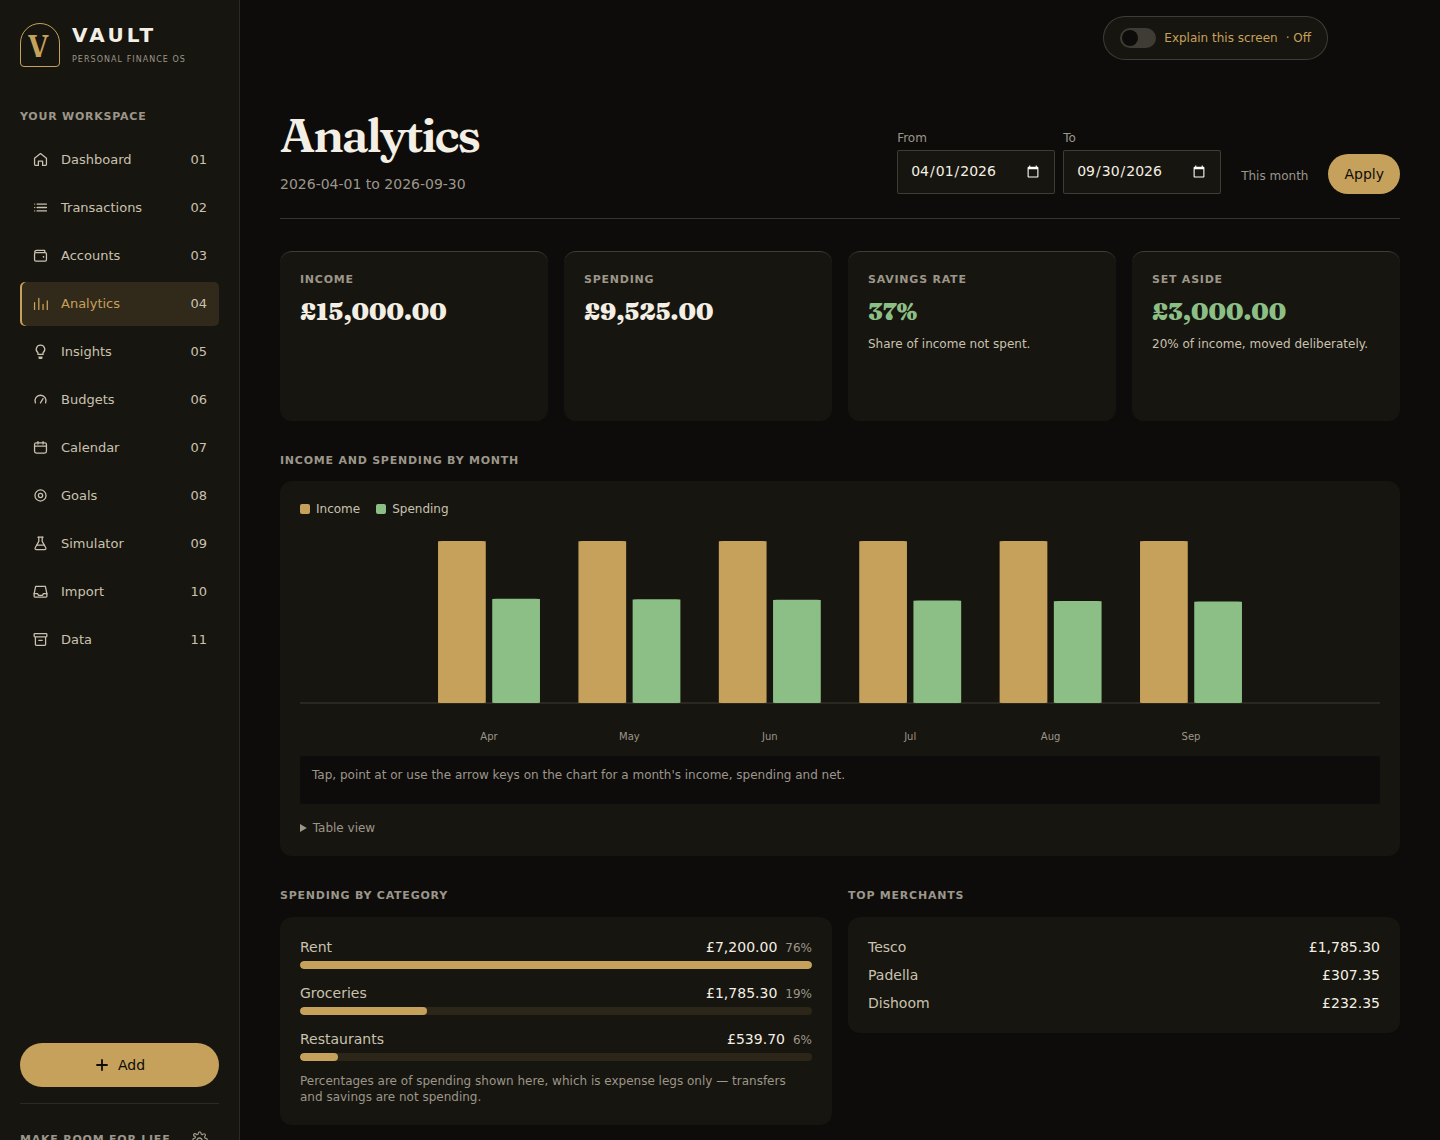
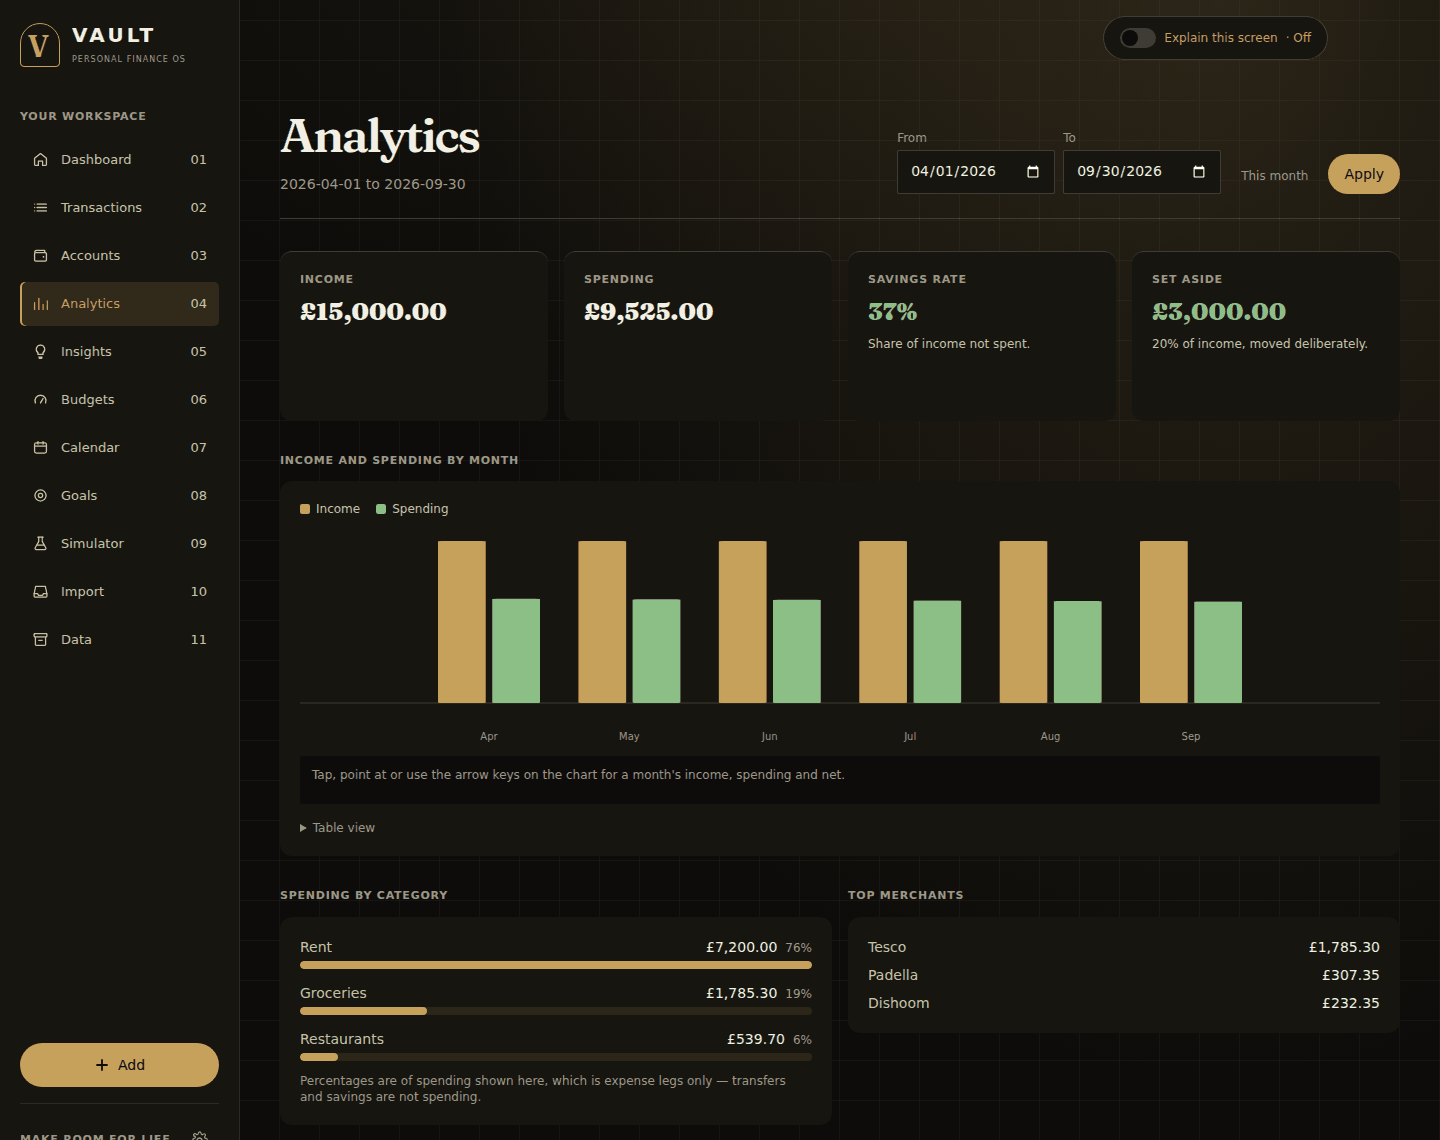
Give Field, Raw and Command their own structure, and fill the space around it
Until now these three differed from Vault Noir only in their tokens. In
section G of globals.css, against the classes every screen shares:

- Field Ledger is a ruled page: cards lose fill and frame and keep a
  rule; the title is italic under a double rule. At lg the content sits
  on a sheet of ledger paper with a red double margin rule.
- Raw Ledger labels sections with inverted tags, underlines the title
  like a poster and tints its stat tiles. At lg the content is a
  hard-framed slab on hatched gutters.
- Command Ledger reads as a console: // section comments (hidden from
  screen readers), a > prompt title, tight 1px frames. At 2xl a live
  status panel fills the spare column: time, route, safe to spend and
  net worth, read from the dashboard's own endpoints.

Layout changes wait for lg, so mobile stays one layout.

Also fixes Vault Noir's ambient background, which never painted: the
shell's inline `background` shorthand reset background-image and beat
every stylesheet rule. The page colour now lives in CSS.

A contrast audit of every text element on all 11 screens, in all four
designs and both appearances, found one failure, older than this work:
the Insights severity word in --status-serious, 3.39:1 in Command light.
The word is now ink and the colour stays on its mark and frame; the
audit now finds none. README screenshots and GIF re-taken.

Claude-Session: https://claude.ai/code/session_01FCuQT8Yj7jcggQ7su8eLVH

Changed region(s): [[0.625, 0.0, 0.9375, 0.1535]]

diff --git a/frontend/src/app/globals.css b/frontend/src/app/globals.css
@@ -12,7 +12,12 @@
 /* Secondary, not muted: on the current item's accent-soft highlight the muted
    ink measured 4.32:1 in Vault Noir light. */
 .vault-nav-index { margin-left: auto; font: 9px var(--font-ibm-plex-mono), monospace; color: var(--text-secondary); }
-[data-design="noir"] .finance-shell { background-image: radial-gradient(ellipse at 85% 0%, var(--accent-soft), transparent 45%); }
+/* The shell paints the page plane here, not inline: an inline `background`
+   shorthand reset background-image, so no design could layer anything over it,
+   and noir's glow below and its ambient grid on body never showed. Noir's
+   shell is see-through, so that body ambient reaches the page. */
+.finance-shell { background-color: var(--page-plane); }
+[data-design="noir"] .finance-shell { background-color: transparent; background-image: radial-gradient(ellipse at 85% 0%, var(--accent-soft), transparent 45%); }
 [data-design="noir"] .finance-shell main { max-width: 1280px; }
 [data-design="noir"] .finance-shell main > header { padding-bottom: 24px; border-bottom: 1px solid var(--hairline-strong); }
 [data-design="noir"] .finance-shell main > header h1 { font-size: clamp(30px, 3.5vw, 48px); line-height: 1.12; letter-spacing: -.045em; font-weight: 500; }
@@ -1283,6 +1288,112 @@
    motion off too. */
 [data-design="raw"] button:not(:disabled):active {
   transform: translate(2px, 2px);
+}
+
+/* ======================================================================
+   G. FIELD, RAW AND COMMAND -- their own structure.
+
+   Until now these three differed from noir only in their tokens: the same
+   boxes in different colours. Each now has a structural language of its
+   own on every screen, written against the classes every screen already
+   shares (.card, .section-label, main > header, .stat-tile), so no screen
+   needed its own rules. Anything that moves layout waits for lg: mobile is
+   one layout across all four designs (see DECISIONS).
+   ====================================================================== */
+
+/* --- Field Ledger: a ruled paper page. A card is not a box on the paper; it
+   is a section of it, so it loses its fill and frame and keeps a rule. */
+[data-design="field"] .card {
+  background: transparent;
+  box-shadow: none;
+  border-top: 1px solid var(--hairline-strong);
+  border-radius: 0;
+}
+[data-design="field"] .finance-shell main > header {
+  padding-bottom: 14px;
+  border-bottom: 3px double var(--hairline-strong);
+}
+[data-design="field"] .finance-shell main > header h1 {
+  font-style: italic;
+}
+[data-design="field"] .finance-shell main :is(h2, h3).section-label {
+  color: var(--accent-text);
+}
+
+/* --- Raw Ledger: loud and labelled. Section heads are inverted tags, the page
+   head is underlined like a poster, and the figures sit on coloured fills.
+   The fills are a light tint of the surface, so every ink keeps its contrast. */
+[data-design="raw"] .finance-shell main :is(h2, h3).section-label,
+[data-design="raw"] .finance-shell main .stat-tile > .section-label {
+  display: inline-block;
+  padding: 3px 8px;
+  background: var(--text-primary);
+  color: var(--surface-1);
+}
+[data-design="raw"] .finance-shell main > header {
+  padding-bottom: 12px;
+  border-bottom: 4px solid var(--text-primary);
+}
+[data-design="raw"] .finance-shell main .stat-tile {
+  background: color-mix(in oklab, var(--accent) 9%, var(--surface-1));
+}
+[data-design="raw"] .finance-shell main :nth-child(even) > .stat-tile {
+  background: color-mix(in oklab, var(--series-2) 8%, var(--surface-1));
+}
+
+/* --- Command Ledger: a console. Section heads read as comments, the page
+   title as a prompt, and every panel is a crisp 1px frame packed tighter.
+   The marks are generated content with empty alt text, so a screen reader
+   reads the heading, not the punctuation. */
+[data-design="console"] .finance-shell main :is(h2, h3).section-label::before {
+  content: "// " / "";
+  color: var(--accent-text);
+}
+[data-design="console"] .finance-shell main > header h1::before {
+  content: "> " / "";
+  color: var(--accent-text);
+}
+[data-design="console"] .finance-shell main > header {
+  padding-bottom: 12px;
+  border-bottom: 1px dashed var(--hairline-strong);
+}
+[data-design="console"] .card {
+  box-shadow: inset 0 0 0 1px var(--hairline-strong);
+}
+[data-design="console"] .card.p-5 {
+  padding: 14px 16px;
+}
+
+/* --- The space around the content, in each design's own idiom. */
+@media (min-width: 1024px) {
+  /* Field: the content is a sheet of ledger paper on the desk, with the red
+     double margin rule a ledger page has, instead of a narrow column
+     floating in an empty plane. */
+  [data-design="field"] .finance-shell main {
+    max-width: 1120px;
+    margin-block: 32px;
+    padding: 48px 56px 64px 104px;
+    background:
+      linear-gradient(90deg,
+        transparent 71px,
+        color-mix(in oklab, var(--accent) 45%, transparent) 71px 72px,
+        transparent 72px 75px,
+        color-mix(in oklab, var(--accent) 45%, transparent) 75px 76px,
+        transparent 76px),
+      var(--surface-1);
+    box-shadow: 0 0 0 1px var(--hairline), var(--shadow-raised);
+  }
+
+  /* Raw: the gutters are hatched, and the content is a slab with a hard
+     frame standing on them. */
+  [data-design="raw"] .finance-shell {
+    background-image: repeating-linear-gradient(-45deg, var(--gridline) 0 2px, transparent 2px 14px);
+  }
+  [data-design="raw"] .finance-shell main {
+    margin-block: 32px;
+    background: var(--page-plane);
+    box-shadow: 0 0 0 var(--border-w) var(--text-primary), var(--shadow-raised);
+  }
 }
 
 @theme inline {

diff --git a/frontend/src/components/AppShell.tsx b/frontend/src/components/AppShell.tsx
@@ -6,7 +6,9 @@ import { useEffect, useMemo, useState, type CSSProperties, type FormEvent, type 
 import { PreferencesPanel } from "@/components/PreferencesPanel";
 import { ExplainToolbar, useExplainMode } from "@/components/ExplainMode";
 import { TransactionEntry } from "@/components/TransactionEntry";
+import { getNetWorth, getSafeToSpend } from "@/lib/api";
 import { useDesign, type Design } from "@/lib/design";
+import { formatMinor, type Minor } from "@/lib/money";
 
 /**
  * Navigation chrome. Plan section 11.1.
@@ -57,7 +59,7 @@ const CONTENT_OFFSET: Record<Design, string> = {
   noir: "lg:pl-60",
   field: "",
   raw: "lg:pb-28",
-  console: "lg:pl-14",
+  console: "lg:pl-14 2xl:pr-64",
 };
 
 export function AppShell({ children }: { children: ReactNode }) {
@@ -66,9 +68,10 @@ export function AppShell({ children }: { children: ReactNode }) {
   const explain = useExplainMode();
 
   return (
-    <div className="finance-shell min-h-dvh" data-explain={explain ? "on" : "off"} data-screen={pathname.split('/')[1] || 'dashboard'} style={{ background: "var(--page-plane)" }}>
+    <div className="finance-shell min-h-dvh" data-explain={explain ? "on" : "off"} data-screen={pathname.split('/')[1] || 'dashboard'}>
       {design === "noir" && <VaultNav />}
       {design === "console" && <RailNav design="console" />}
+      {design === "console" && <ConsoleStatus />}
       {design === "raw" && <DockNav />}
 
       <div className={`${CONTENT_OFFSET[design]} lg:flex lg:min-h-dvh lg:flex-col`}>
@@ -292,6 +295,73 @@ function RailAmbient() {
       <Ticks />
       {rule}
     </div>
+  );
+}
+
+/* ============================================================
+   D. Command Ledger -- a status panel in the wide screen's spare
+   column. A console's answer to dead space is a live readout, not
+   ornament: the time to the second, where you are, and the two
+   figures you would otherwise open the dashboard for. They are read
+   from the same endpoints the dashboard uses, on each page change.
+   ============================================================ */
+
+function ConsoleStatus() {
+  const pathname = usePathname();
+  const [time, setTime] = useState<string | null>(null);
+  const [figures, setFigures] = useState<{ safe: Minor; worth: Minor } | null>(null);
+
+  useEffect(() => {
+    function tick() {
+      setTime(new Date().toLocaleTimeString("en-GB"));
+    }
+    tick();
+    const id = window.setInterval(tick, 1000);
+    return () => window.clearInterval(id);
+  }, []);
+
+  useEffect(() => {
+    let live = true;
+    Promise.all([getSafeToSpend(), getNetWorth()])
+      .then(([sts, worth]) => {
+        if (live) setFigures({ safe: sts.safe_to_spend_minor, worth: worth.net_worth_minor });
+      })
+      // A readout that cannot be read shows nothing rather than a stale or made-up figure.
+      .catch(() => {
+        if (live) setFigures(null);
+      });
+    return () => {
+      live = false;
+    };
+  }, [pathname]);
+
+  const row = (label: string, value: ReactNode) => (
+    <div className="flex items-baseline justify-between gap-3">
+      <dt style={{ color: "var(--text-muted)" }}>{label}</dt>
+      <dd className="tnum" style={{ color: "var(--text-primary)" }}>{value}</dd>
+    </div>
+  );
+
+  return (
+    <aside
+      aria-label="Status"
+      className="fixed inset-y-0 right-0 hidden w-64 flex-col gap-5 border-l px-5 py-6 text-xs 2xl:flex"
+      style={{ borderColor: "var(--hairline)", background: "var(--page-plane)" }}
+    >
+      <p className="section-label" style={{ color: "var(--accent-text)" }}>
+        {"// status"}
+      </p>
+      <dl className="space-y-2">
+        {row("time", time ?? "--:--:--")}
+        {row("route", `~${pathname === "/" ? "/dashboard" : pathname}`)}
+      </dl>
+      {figures && (
+        <dl className="space-y-2 border-t pt-4" style={{ borderColor: "var(--hairline)" }}>
+          {row("safe to spend", formatMinor(figures.safe))}
+          {row("net worth", formatMinor(figures.worth))}
+        </dl>
+      )}
+    </aside>
   );
 }
 

diff --git a/frontend/src/components/InsightPanel.tsx b/frontend/src/components/InsightPanel.tsx
@@ -132,8 +132,11 @@ function InsightCard({ insight, narration }: { insight: Insight; narration?: str
   return (
     <li className="card p-4" style={{ boxShadow: `inset 0 0 0 1px ${s.colour}` }}>
       <div className="flex flex-wrap items-baseline gap-x-3 gap-y-1">
-        <span className="text-sm" style={{ color: s.colour }}>
-          <span aria-hidden>{s.mark}</span> {s.word}
+        {/* The status colour marks the symbol and the frame, not the word:
+            --status-serious is a fill, and as text it fell to 3.4:1 in
+            Command Ledger light. The word in ink reads in every palette. */}
+        <span className="text-sm" style={{ color: "var(--text-primary)" }}>
+          <span aria-hidden style={{ color: s.colour }}>{s.mark}</span> {s.word}
         </span>
         <span className="min-w-0 flex-1 text-sm" style={{ color: "var(--text-primary)" }}>
           {insight.title}

diff --git a/docs/HANDOFF.md b/docs/HANDOFF.md
@@ -168,14 +168,14 @@ where something lives.
 | `app/import/page.tsx` | Statement upload, one-by-one candidate triage, receipt photo |
 | `app/data/page.tsx` | Exports, JSON backup, restore, backup staleness status |
 | `app/layout.tsx` | Root layout: fonts (`lib/fonts.ts`), `DesignProvider`, `<html>`/`<body>`; serves the default `data-design`/`data-theme` so motion starts at first paint |
-| `app/globals.css` | Every design token (see below), `.card`/`.form-control`/`.font-display`, and the motion hooks (`.stagger-in`, `.stagger-rows`, `.bar-grow`, `.chart-draw`, ...): noir's in section E, the other three designs' in F |
+| `app/globals.css` | Every design token (see below), `.card`/`.form-control`/`.font-display`, the motion hooks (`.stagger-in`, `.stagger-rows`, `.bar-grow`, `.chart-draw`, ...): noir's in section E, the other three designs' in F, and Field, Raw and Command's structure and dead space in G |
 | `app/manifest.ts` | PWA installability — why receipt capture can reach for a camera |
 
 **Components** (`components/`):
 
 | File | Responsibility |
 |---|---|
-| `AppShell.tsx` | Nav chrome for all four designs (rail / masthead / dock / rail+command-bar); mobile top bar and bottom tabs (four plus a More sheet), identical across designs |
+| `AppShell.tsx` | Nav chrome for all four designs (rail / masthead / dock / rail+command-bar), plus Command Ledger's `ConsoleStatus` panel at 2xl; mobile top bar and bottom tabs (four plus a More sheet), identical across designs |
 | `PreferencesPanel.tsx` | The gear-icon control: pick a design, pick System/Light/Dark. `placement="rail"` puts it inside the icon rail |
 | `AccountManager.tsx` | Account and category lists and creation forms, with per-account rename, archive and restore and per-category rename (one shared `RenameForm`); the one line where "amount owed" becomes a negative balance |
 | `BufferSetting.tsx` | The protected cash buffer card on Accounts (`#buffer`); the dashboard's "none set" note links to it |
@@ -313,15 +313,15 @@ designs on all ten screens — see "A motion layer landed" above for exactly wha
 of the original three-part ask:
 
 1. ~~**Motion.**~~ Done: each design has its own motion language on every screen.
-2. **Variance.** Still only the dashboard and budgets screens show each design's distinct visual
-   language (Field Ledger's hairline rules and no card backgrounds; Raw Ledger's hard shadows and
-   coloured card fills; Command Ledger's bento-style density). The other eight screens inherit
-   colour and type correctly but look visually flatter than the pitch promised.
-3. **Dead space.** Vault Noir's rail dead-space is filled (tick marks, live clock, an ambient page
-   glow/grid). The equivalent for the other three designs' own chrome — and for screens beyond
-   Dashboard/Budgets in any design — is still open. Each design's own idiom should decide what
-   fills it, per the original brief: Command Ledger might want a live secondary panel; Field
-   Ledger might want a wider single column with real margins rather than a centred narrow one.
+2. ~~**Variance.**~~ Done, on every screen, in section G of `globals.css`. Field Ledger is a
+   ruled page: cards lose their fill and frame and keep a rule, with an italic title under a
+   double rule. Raw Ledger labels sections with inverted tags, underlines the title like a
+   poster and puts its figures on tinted fills. Command Ledger reads as a console: `//`
+   section comments, a `>` prompt title and tight 1px-framed panels.
+3. ~~**Dead space.**~~ Done, at lg and up. Field sets the content on a sheet of ledger paper with
+   a red double margin rule; Raw stands a hard-framed slab on hatched gutters; Command gets a
+   live status panel at 2xl (`ConsoleStatus`: the time, the route, safe to spend and net worth).
+   Vault Noir's ambient glow and grid now actually show; see the trap on inline backgrounds.
 
 Everything else the earlier handoffs listed as outstanding has landed: `rollover_reset` has a
 control on the budgets screen, transactions can be edited for their non-monetary fields, receipt
@@ -538,6 +538,11 @@ These are bugs already found and fixed. They will come back if the reasoning is 
   optional one precisely so a caller cannot forget it: a `None` default would downgrade the
   merchant warning to `not_evaluated` silently, which is the quietest possible way to lose a
   warning. `budget_routes` fetches once for the whole chain, never once per period.
+- **Never give `.finance-shell` an inline `background`.** The shorthand resets
+  `background-image`, and an inline value beats every stylesheet rule, so no design could layer
+  anything over the page: Vault Noir's glow and ambient grid were written, documented as done,
+  and never painted. The page colour lives in CSS now, and noir's shell is transparent so the
+  body's ambient shows through.
 - **Motion scoped to a design needs that design on the first paint.** `<html>` used to be served
   with no `data-design`, so every motion rule started matching only when `DesignProvider`'s effect
   set it after hydration: each cold load painted the page whole, then snapped it back to hidden to

diff --git a/README.md b/README.md
@@ -47,8 +47,9 @@ Tailscale, real certificates, nothing exposed to the internet.
 
 All figures are the fictional household `scripts/seed_demo.py` creates.
 
-**Four designs, one set of components.** Each is a token set in `globals.css` with its own light
-and dark palette, switched from the gear icon.
+**Four designs, one set of components.** Each is a token set in `globals.css`, with its own light
+and dark palette and its own structure: ruled paper, a brutalist slab, a console with a live status
+panel. Switched from the gear icon.
 
 | Vault Noir: quiet, dark, expensive | Field Ledger: a financial paper |
 |---|---|
